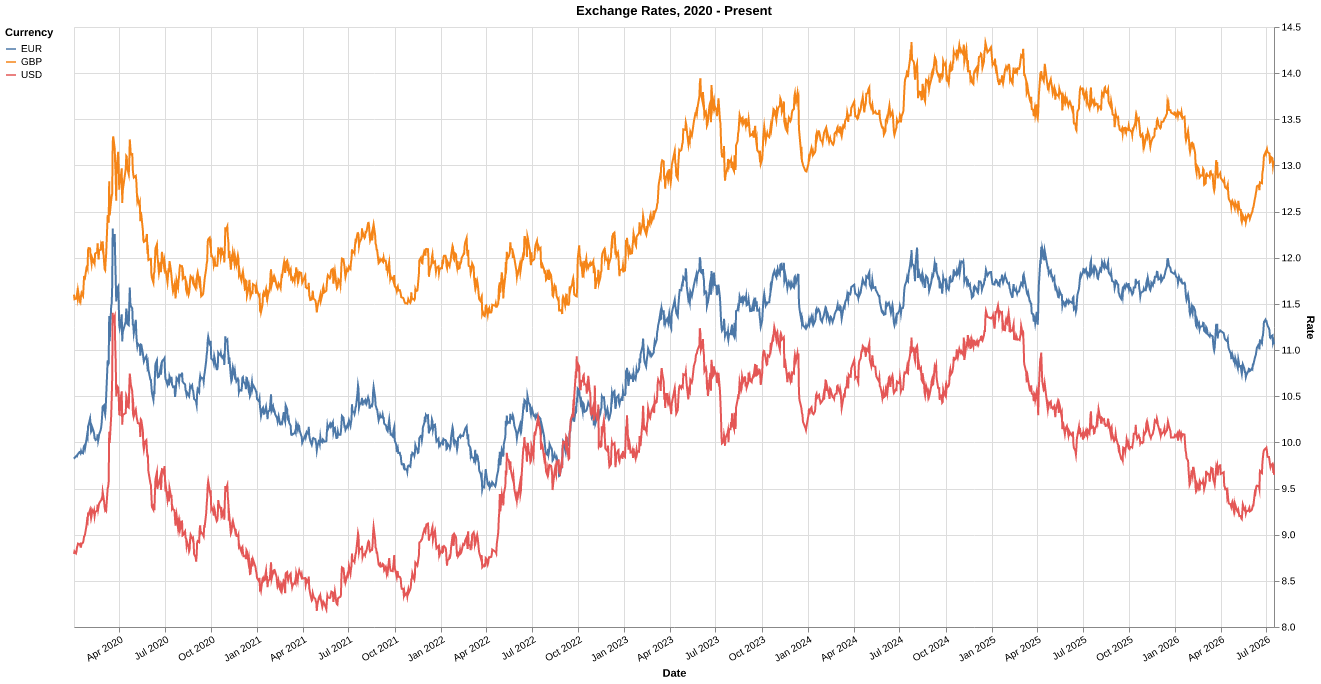
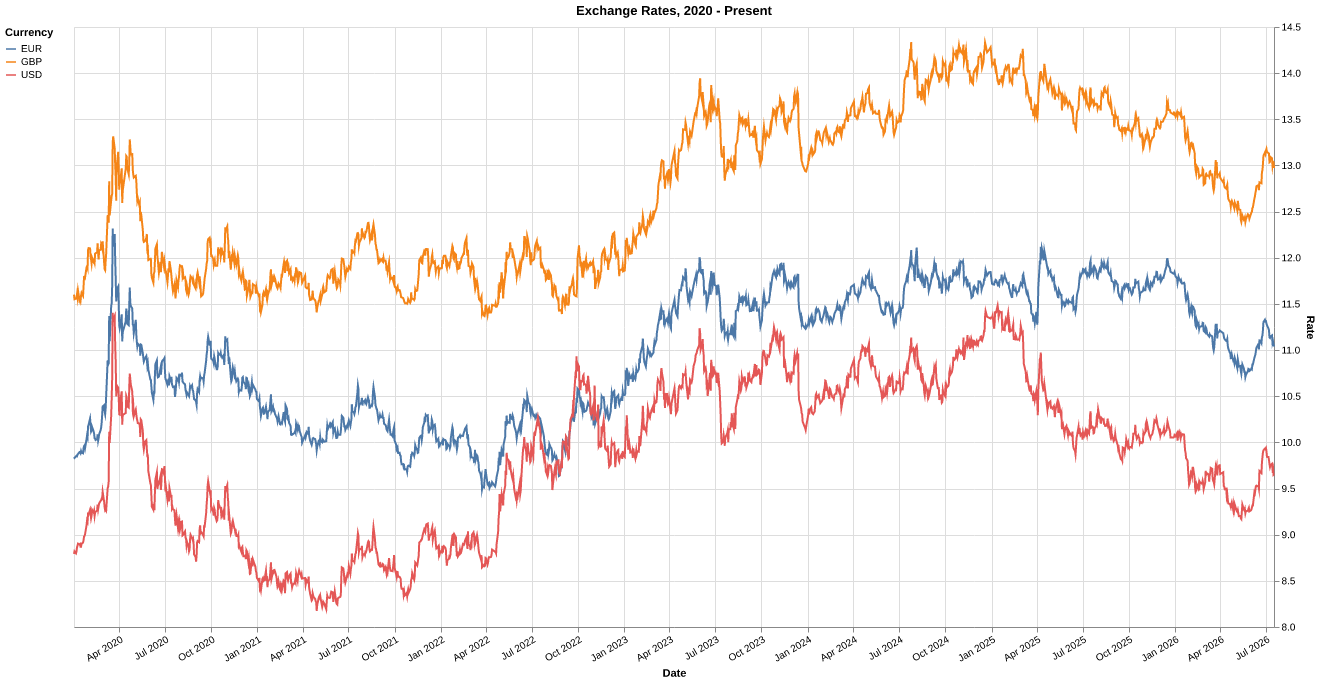
Scheduled data update

diff --git a/README.md b/README.md
@@ -12,10 +12,10 @@ The datasets in this repository are automaticly updated every day at **2:05 AM**
 <!-- table starts -->
 |Dataset|Source|Date Range|Updated|Download|Preview|
 | :--- | :--- | :--- | :--- | :--- | :--- |
-|[Mortgage](#mortgage)|Finansportalen|2021 - Present|2026-07-17|[<center>csv</center>](https://raw.githubusercontent.com/frefrik/norway-finance-statistics/master/data/no_mortgage.csv)|[<center>preview</center>](data/no_mortgage.csv)|
+|[Mortgage](#mortgage)|Finansportalen|2021 - Present|2026-07-18|[<center>csv</center>](https://raw.githubusercontent.com/frefrik/norway-finance-statistics/master/data/no_mortgage.csv)|[<center>preview</center>](data/no_mortgage.csv)|
 |[Key policy rate](#key-policy-rate)|Norges Bank|1991 - Present|2026-07-17|[<center>csv</center>](https://raw.githubusercontent.com/frefrik/norway-finance-statistics/master/data/no_keyPolicyRate.csv)|[<center>preview</center>](data/no_keyPolicyRate.csv)|
-|[NOWA](#nowa---norwegian-overnight-weighted-average)|Norges Bank|2011 - Present|2026-07-17|[<center>csv</center>](https://raw.githubusercontent.com/frefrik/norway-finance-statistics/master/data/no_nowa.csv)|[<center>preview</center>](data/no_nowa.csv)|
-|[Exchange Rates](#exchange-rates)|Norges Bank|1980 - Present|2026-07-17|[<center>csv</center>](https://raw.githubusercontent.com/frefrik/norway-finance-statistics/master/data/no_exchangeRates.csv)|[<center>preview</center>](data/no_exchangeRates.csv)|
+|[NOWA](#nowa---norwegian-overnight-weighted-average)|Norges Bank|2011 - Present|2026-07-18|[<center>csv</center>](https://raw.githubusercontent.com/frefrik/norway-finance-statistics/master/data/no_nowa.csv)|[<center>preview</center>](data/no_nowa.csv)|
+|[Exchange Rates](#exchange-rates)|Norges Bank|1980 - Present|2026-07-18|[<center>csv</center>](https://raw.githubusercontent.com/frefrik/norway-finance-statistics/master/data/no_exchangeRates.csv)|[<center>preview</center>](data/no_exchangeRates.csv)|
 |[Inflation Indicators (CPI)](#inflation-indicators-cpi)|Norges Bank|2006 - Present|2026-07-15|[<center>csv</center>](https://raw.githubusercontent.com/frefrik/norway-finance-statistics/master/data/no_cpi.csv)|[<center>preview</center>](data/no_cpi.csv)|
 <!-- table ends -->
 